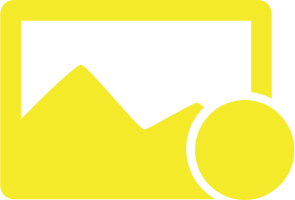
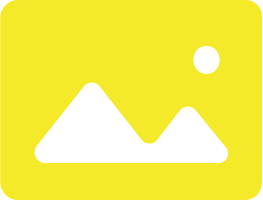
页面优化； 更换App图标；

diff --git a/lib/page/cook_list_page.dart b/lib/page/cook_list_page.dart
@@ -98,65 +98,83 @@ class CookListState extends State<CookListPage> {
     return Scaffold(
       appBar: AppBar(
         centerTitle: true,
-        elevation: 3,
+        elevation: 1,
         iconTheme: IconThemeData(color: Colors.grey, size: 14),
         title: Text(
           widget.name,
           style: TextStyle(fontSize: 16),
         ),
       ),
-      body: Column(
-        children: <Widget>[
-          Expanded(
-            child: GridView.count(
-//              semanticChildCount: _cookbooks.length + 1,
-              shrinkWrap: true,
-              controller: _controller,
-              crossAxisCount: 3,
-              crossAxisSpacing: 10,
-              mainAxisSpacing: 10,
-              padding: EdgeInsets.only(top: 15, left: 8, right: 8),
-              children: _cookbooks.map((cookbook) {
-                return InkWell(
-                  onTap: () {
-                    Navigator.of(context)
-                        .push(MaterialPageRoute(builder: (context) {
-                      return CookbookPage(
-                        cookbook: cookbook,
-                      );
-                    }));
-                  },
-                  child: Column(
-                    children: <Widget>[
-                      cookbook.thumbnail == null
-                          ? Image.asset('image/placeholder.png')
-                          : FadeInImage.assetNetwork(
-                              placeholder: 'image/placeholder.png',
-                              image: cookbook.thumbnail,
-                              fit: BoxFit.fill,
-                            ),
-                      Expanded(
-                        child: Text(
-                          cookbook.name,
-                          style: TextStyle(fontSize: 12),
-                        ),
-                      ),
-                    ],
+      body: _cid == null && _cookbooks.length == 0
+          ? Center(
+              child: Column(
+                mainAxisAlignment: MainAxisAlignment.center,
+                crossAxisAlignment: CrossAxisAlignment.center,
+                children: <Widget>[
+                  Image.asset(
+                    'image/no-data.png',
+                    height: 100,
+                    width: 100,
                   ),
-                );
-              }).toList(),
+                  Text(
+                    '暂无收藏记录',
+                    style: TextStyle(color: Colors.grey[600], fontSize: 14),
+                  )
+                ],
+              ),
+            )
+          : Column(
+              children: <Widget>[
+                Expanded(
+                  child: GridView.count(
+//              semanticChildCount: _cookbooks.length + 1,
+                    shrinkWrap: true,
+                    controller: _controller,
+                    crossAxisCount: 3,
+                    crossAxisSpacing: 10,
+                    mainAxisSpacing: 10,
+                    padding: EdgeInsets.only(top: 15, left: 8, right: 8),
+                    children: _cookbooks.map((cookbook) {
+                      return InkWell(
+                        onTap: () {
+                          Navigator.of(context)
+                              .push(MaterialPageRoute(builder: (context) {
+                            return CookbookPage(
+                              cookbook: cookbook,
+                            );
+                          }));
+                        },
+                        child: Column(
+                          children: <Widget>[
+                            cookbook.thumbnail == null
+                                ? Image.asset('image/placeholder.png')
+                                : FadeInImage.assetNetwork(
+                                    placeholder: 'image/placeholder.png',
+                                    image: cookbook.thumbnail,
+                                    fit: BoxFit.fill,
+                                  ),
+                            Expanded(
+                              child: Text(
+                                cookbook.name,
+                                style: TextStyle(fontSize: 12),
+                              ),
+                            ),
+                          ],
+                        ),
+                      );
+                    }).toList(),
+                  ),
+                ),
+                _isLoading
+                    ? Text('数据加载中...')
+                    : ( //_state == 2
+                        //? Text('没有更多了')
+                        /*:*/ Container(
+                        height: 0,
+                        width: 0,
+                      )),
+              ],
             ),
-          ),
-          _isLoading
-              ? Text('数据加载中...')
-              : ( //_state == 2
-                  //? Text('没有更多了')
-                  /*:*/ Container(
-                  height: 0,
-                  width: 0,
-                )),
-        ],
-      ),
     );
   }
 

diff --git a/lib/main.dart b/lib/main.dart
@@ -119,9 +119,7 @@ class _MyHomePageState extends State<MyHomePage> {
         title: Text(
           widget.title,
           style: TextStyle(
-              fontSize: 16,
-              color: Colors.orange[300],
-              fontWeight: FontWeight.bold),
+              fontSize: 16, color: Colors.black54, fontWeight: FontWeight.bold),
         ),
         centerTitle: true,
         elevation: 1,
@@ -151,6 +149,8 @@ class _MyHomePageState extends State<MyHomePage> {
                       shrinkWrap: true,
                       childAspectRatio: 2.5,
                       crossAxisCount: 3,
+                      mainAxisSpacing: 6,
+                      crossAxisSpacing: 6,
                       children: generateCategoryItem(),
                     ),
                   ),
@@ -171,11 +171,12 @@ class _MyHomePageState extends State<MyHomePage> {
                         )
                       : GridView.count(
                           padding:
-                              EdgeInsets.only(left: 12, right: 12, bottom: 10),
+                              EdgeInsets.only(left: 12, right: 12, bottom: 25),
                           physics: NeverScrollableScrollPhysics(),
                           shrinkWrap: true,
                           crossAxisCount: 2,
                           childAspectRatio: 1.6,
+                          mainAxisSpacing: 15,
                           children: _recommendList.map((cookbook) {
                             return InkWell(
                               onTap: () {
